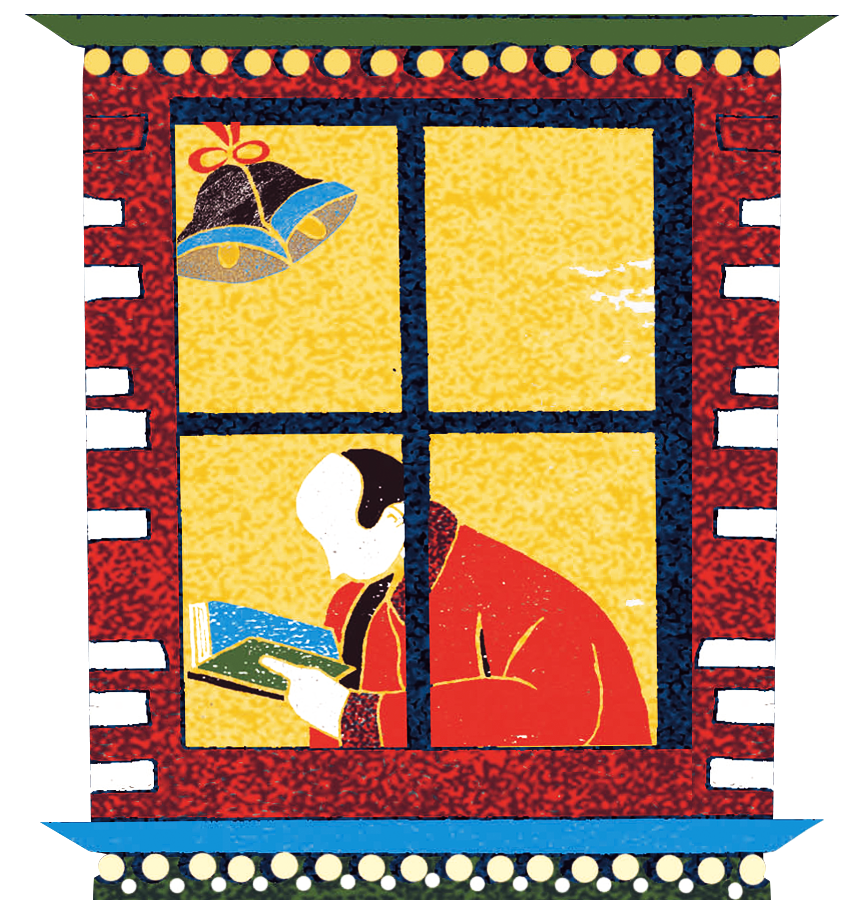
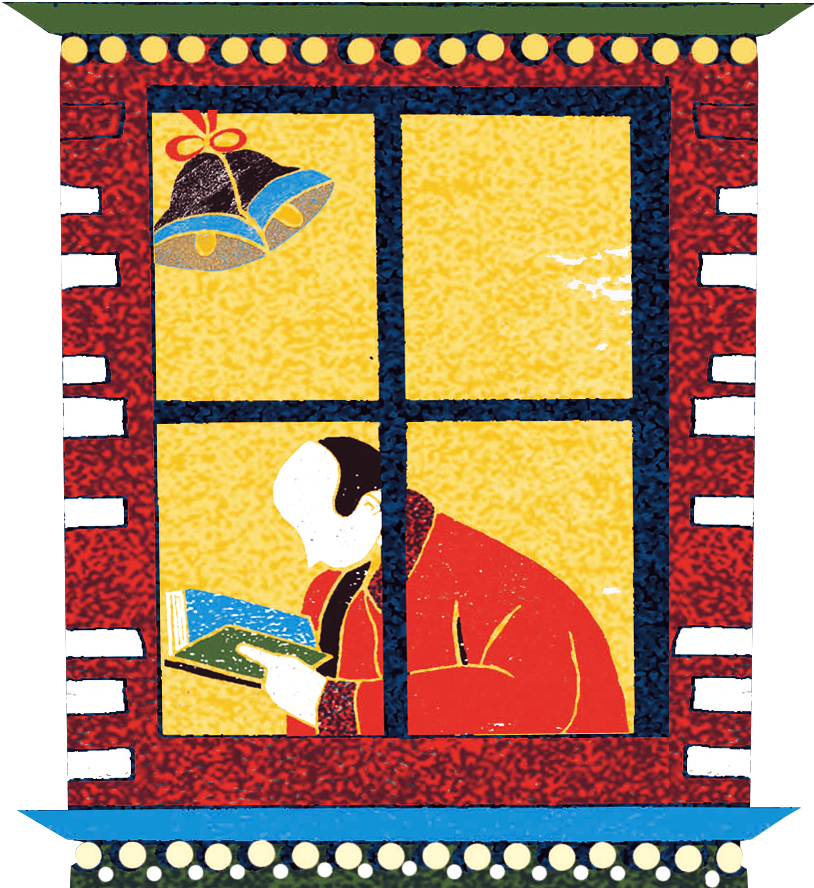
Breakpoint all the things

diff --git a/client/styles/pages/best-of-2015.scss b/client/styles/pages/best-of-2015.scss
@@ -61,9 +61,9 @@ body {
   background-position: left top;
   background-size: 1550px auto;
   height: 80%;
-  padding-left: 300px;
+  padding-left: 310px;
   padding-top: 190px;
-  padding-right: 190px;
+  padding-right: 100px;
   font-family: $font-display;
   position: relative;
 
@@ -82,13 +82,15 @@ body {
   }
 
   @include mq($until: tablet) {
-    padding-left: 20px;
+    padding-left: 14px;
     padding-top: 20px;
     background-size: 800px auto;
     padding-right: 20px;
     
-    background-image: url('../../images/night.png');
-    background-size: 240px auto;
+    background-image: url('../../images/frieze-sanslights.jpg');
+    background-size: auto 135%;
+
+
 
     &:before {
       position: absolute;
@@ -103,14 +105,20 @@ body {
       background-repeat: repeat-y;
       background-size: 100% auto;
       background-position: left top;
+
+      @include mq($until: phablet) {
+        width: 110px;
+        top: 57px;
+      }
+
+      @include mq($until: mobile) {
+        width: 94px;
+      }
     }
   }
 
   @include mq($until: phablet) {
-    &:before {
-      width: 115px;
-      top: 57px;
-    }
+    background-size: auto 110%;
   }
 
   &__logo {
@@ -128,7 +136,7 @@ body {
     color: white;
     font-weight: 400;
     margin: 15px 0 25px 0;
-    text-shadow: 0 0 20px rgba(255,255,255,0.3), 0 0 6px rgba(255,255,255,0.66);
+    text-shadow: 0 0 20px rgba(255,255,255,0.34), 0 0 6px rgba(255,255,255,0.5);
 
     @include mq($until: portraittablet) {
       font-size: 130px;
@@ -147,8 +155,14 @@ body {
     }
 
     @include mq($until: phablet) {
-      margin: 25px 0 10px 110px;
+      margin: 25px 0 10px 95px;
+      font-size: 50px;
       text-align: center;
+    }
+
+    @include mq($until: mobile) {
+      margin: 25px 0 10px 85px;
+      font-size: 42px;
     }
   }
 
@@ -175,12 +189,27 @@ body {
     }
 
     @include mq($until: phablet) {
-      font-size: 18px;
-      margin: 25px 0 65px 120px;
+      font-size: 17px;
+      margin: 25px 0 65px 110px;
+    }
+
+    @include mq($until: mobile) {
+      margin-left: 95px;
     }
 
     p {
       margin: .5em 0;
+    }
+
+    a {
+      color: white;
+      text-decoration: none;
+      font-style: italic;
+      letter-spacing: .02em;
+      padding: 3px .3em 3px 0;
+      &:hover {
+        text-shadow: 0 0 6px rgba(255,255,255,0.4);
+      }
     }
 
     a:before {
@@ -191,20 +220,12 @@ body {
       font-size: .6em;
       margin-right: 1px;
     }
-
-    a {
-      color: white;
-      text-decoration: none;
-      font-style: italic;
-      letter-spacing: .02em;
-      padding-right: .3em;
-    }
   }
 }
 
 .section__wrapper {
   display: block;
-  margin-left: 280px;
+  margin-left: 290px;
   margin-top: 30px;
   padding: 0;
 
@@ -229,29 +250,43 @@ body {
   display: inline-block;
   vertical-align: top;
 
+  @include mq($until: phablet) {
+    display: block;
+    clear: both;
+  }
+
   ul {
     margin: 0;
     padding: 0;
   }
 
+  &--minor {
+
+    .section__title {
+      @include mq($from: smalldesktop) {
+        font-size: 34px;
+      }
+    }
+
+  }
+
   &__header {
     font-family: $font-display;
     margin: 0 0 34px 20px;
-    background-size: 0;
-    
+
     @include mq($until: tablet) {
-      margin:20px 20px 20px 20px;
+      margin:20px 15px 20px 15px;
+      padding-top: 10px;
       text-align: center;
 
       &--image:before {
         content: " ";
         display: block;
-        width: 100%;
-        padding-top: 80%;
+        width: 70%;
+        padding-top: inherit;
         max-width: 350px;
         margin: 0 auto 22px auto;
-        background-image: inherit;
-        background-size: 90% auto;
+        background-size: 100% auto;
         background-position: center bottom;
         background-repeat: no-repeat;
       }
@@ -271,7 +306,7 @@ body {
     }
 
     @include mq($until: tablet) {
-      font-size: 40px;
+      font-size: 35px;
     }
   }
 
@@ -346,6 +381,7 @@ body {
 
   @include mq($until: tablet) {
     min-height: 320px;
+    padding: 0 15px;
   }
 
   @include mq($until: phablet) {
@@ -361,7 +397,7 @@ body {
       height: auto;
       display: block;
 
-      @include mq($until: tablet) {
+      @include mq($until: smalldesktop) {
         margin: 0 auto;
       }
     }
@@ -370,7 +406,22 @@ body {
 }
 
 .o-footer {
-  position: absolute;
+  margin-top: 80px;
   z-index: 2;
   width: 100%;
+
+  @include mq($from: tablet) {
+    position: absolute;
+
+    &:before {
+      position: absolute;
+      content: " ";
+      top: -205px;
+      right: 0;
+      display: block;
+      width: 180px;
+      height: 200px;
+      background: url('../../images/books.png') no-repeat top right;
+    }
+  }
 }

diff --git a/views/best-of-2015.html b/views/best-of-2015.html
@@ -28,8 +28,16 @@
 <main>
   <div class="section__wrapper">
     {% for slug, category in categories %}
-      <section class="section">
-        <header id="{{slug}}-books" class="section__header{% if category.image %} section__header--image" style="background-image:url('../images/{{category.image}}.png');{% endif %}">
+    {% if category.image %}
+          <style>
+          #{{slug}}-books.section__header--image:before{
+            background-image:url('../images/{{category.image.url}}.png');
+            padding-top:{{category.image.ratio}}%;
+          }
+          </style>
+        {% endif %}
+      <section class="section{% if category.books.length < 3 %} section--minor{% endif %}">
+        <header id="{{slug}}-books" class="section__header{% if category.image %} section__header--image{% endif %}">
           <h2 class="section__title">{{category.name}}</h2><p class="section__subtitle">{{ category.reviewer.name}}</p>
         </header>
         <ul>
@@ -44,7 +52,7 @@
               </div>
               {% if book.book.image %}
               <div class="card card--image">
-                <img src="../images/{{ book.book.image }}" alt="">
+                <img src="../images/covers/{{ book.book.image }}" alt="">
               </div>
               {% endif %}
             </li>

diff --git a/views/basic.html b/views/basic.html
@@ -16,6 +16,27 @@
     {% endblock %}
   </head>
   <body>
+
+    {% if is_prod %}
+    <script>
+    (function(i,s,o,g,r,a,m){i['GoogleAnalyticsObject']=r;i[r]=i[r]||function(){
+    (i[r].q=i[r].q||[]).push(arguments)},i[r].l=1*new Date();a=s.createElement(o),
+    m=s.getElementsByTagName(o)[0];a.async=1;a.src=g;m.parentNode.insertBefore(a,m)
+    })(window,document,'script','//www.google-analytics.com/analytics.js','ga');
+    ga('create', 'UA-35229645-1', 'auto');
+    ga('require','displayfeatures');
+    ga('send', 'pageview');
+    </script>
+    <script>
+    var FT = FT || {}; FT.Properties = FT.Properties || {}; FT.Properties.ENV = 'p'; // For Prod OR
+    </script>
+    <!-- FT tracking module 1.2.5 -->
+    <script src="https://h2.ft.com/static-render-p.ft.com/scripts/a03ca392/bundles/tracking.js"></script>
+    <noscript>
+    <img alt="" border="0" width="1" height="1" src="http://track.ft.com/track/track.js?javascript=disabled"/>
+    <img alt="" border="0" width="1" height="1" src="http://stats.ft.com/si/track.gif?WT.js=No"/>
+    </noscript>
+    {% endif %}
     
     {% block body %}
     {% endblock %}

diff --git a/process-data.js b/process-data.js
@@ -2,10 +2,10 @@ const slugify = require('speakingurl');
 
 
 var section_graphics = {
-  'history': 'windows_4',
-  'economics': 'windows_5',
-  'politics': 'windows_1',
-  'art': 'windows_6'
+  'business': {ratio: 96, url:'windows_4'},
+  'economics': {ratio: 81, url:'windows_5'},
+  'politics': {ratio: 64, url:'windows_1'},
+  'art': {ratio: 77, url:'windows_6'}
 };
 
 module.exports = function(data) {
@@ -20,7 +20,8 @@ module.exports = function(data) {
 
   data.books.forEach((row) => {
     const category_slug = slugify(row.category);
-    row.book.slug = slugify(row.book.fulltitle + ' by ' + row.book.author);
+    row.book.slug = slugify((row.book.fulltitle || row.book.title) + ' by ' + row.book.author);
+    row.book.image = row.review.useimage && row.book.image ? row.book.image : null;
     if (categories[category_slug]) {
       categories[category_slug].books.push(row);
       categories[category_slug].reviewer = {

diff --git a/gulpfile.babel.js b/gulpfile.babel.js
@@ -262,6 +262,7 @@ gulp.task('templates', () => {
 
   const env = nunjucks.configure('views');
   const data = processData(JSON.parse(fs.readFileSync('client/data.json', 'utf8')));
+  data.is_prod = env === 'production';
   const slug = 'best-of-2015';
   const html = env.render('best-of-2015.html', data);
   mkdirp.sync(`.tmp/${slug}`);
